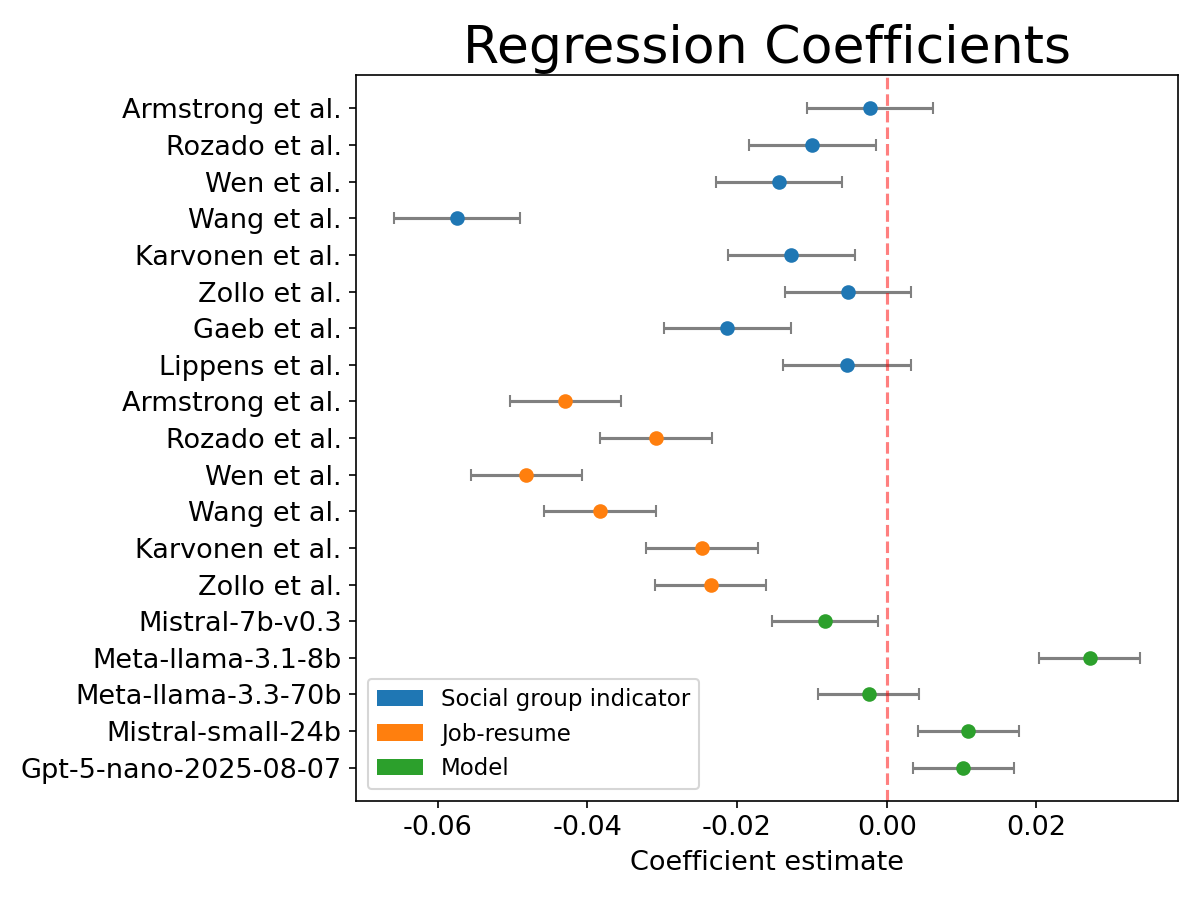
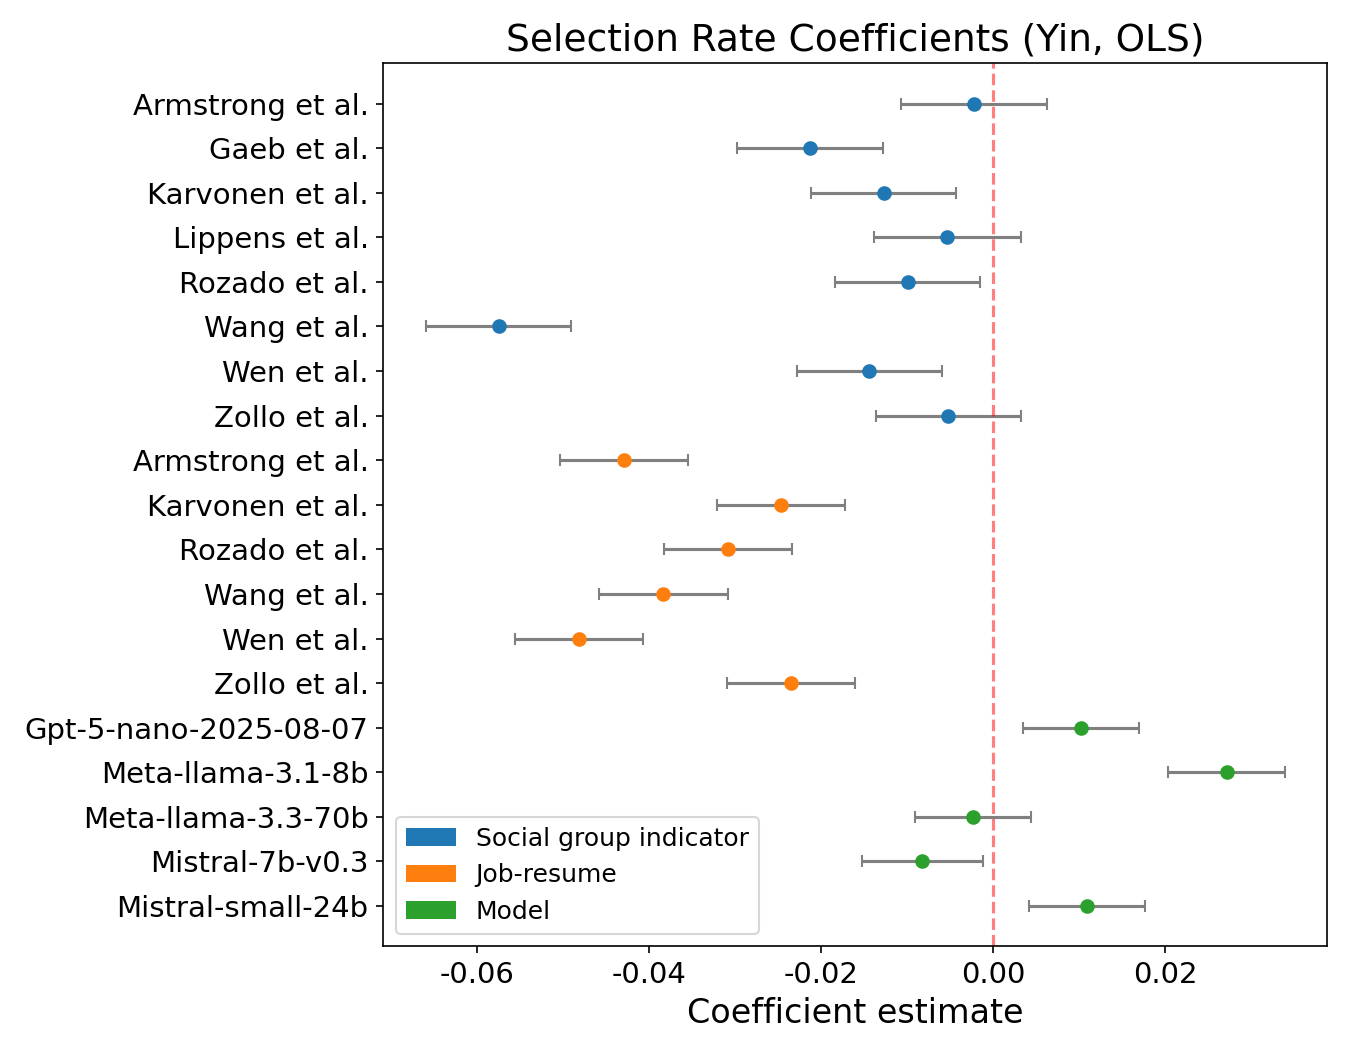
Add interaction-effects model results

diff --git a/code/utils/meta_regression_analysis_intercept.py b/code/utils/meta_regression_analysis_intercept.py
@@ -36,6 +36,12 @@ TITLE_FONT_SIZE = 25
 LABEL_FONT_SIZE = 13
 LEGEND_FONT_SIZE = 15
 TICK_FONT_SIZE = 13
+PANEL_TITLE_FONT_SIZE = 18
+PANEL_LABEL_FONT_SIZE = 16
+PANEL_TICK_FONT_SIZE = 14
+PANEL_LEGEND_FONT_SIZE = 12
+PANEL_FIGSIZE = (9, 7)
+PANEL_DPI = 150
 plt.rcParams.update({
     'font.family': 'sans-serif',
     'font.sans-serif': ['Inter-Regular', 'DejaVu Sans', 'Arial', 'Liberation Sans'],
@@ -386,9 +392,29 @@ def cross_validate(X, y, X_cols, df=None, color_col=None, n_splits=5, random_sta
     return r2_mean, r2_std, rmse_mean, all_y_test, all_pred_test, all_color_test
 
 
+def panel_description(args, ablation):
+    metric = {
+        'selection_rate': 'Selection Rate',
+        'score_difference': 'Score Difference',
+        'regression_coefficients': 'Gender Effect',
+    }.get(args.metric, args.metric.replace('_', ' ').title())
+    estimator = {'quantile': 'Quantile Regression', 'logistic': 'Logistic Regression'}.get(ablation, 'OLS')
+    context = f'{args.exp_framework.capitalize()}, {estimator}'
+    if ablation not in ('none', 'quantile', 'logistic'):
+        context += f", {ablation.replace('_', ' ').title()} Ablation"
+    return metric, context
+
+
+def style_panel(ax):
+    ax.title.set_fontsize(PANEL_TITLE_FONT_SIZE)
+    ax.xaxis.label.set_size(PANEL_LABEL_FONT_SIZE)
+    ax.yaxis.label.set_size(PANEL_LABEL_FONT_SIZE)
+    ax.tick_params(axis='both', labelsize=PANEL_TICK_FONT_SIZE)
+
+
 def plot(all_y_test, all_pred_test, all_color_test, r2, rmse, args, ablation='none'):
     # Scatter plot with an identity line, optionally colored by category.
-    fig, ax = plt.subplots(figsize=(9, 7))
+    fig, ax = plt.subplots(figsize=PANEL_FIGSIZE)
     
     if args.color_by != 'none':
         # Collect all color values and create a color mapping
@@ -424,21 +450,23 @@ def plot(all_y_test, all_pred_test, all_color_test, r2, rmse, args, ablation='no
     ax.set_xlim(x_limits)
     ax.set_ylim(y_limits)
     
-    ax.set_xlabel('Observed')
-    ax.set_ylabel('Predicted')
-    ax.set_title('Observed vs Predicted Selection Rate')
+    metric, context = panel_description(args, ablation)
+    ax.set_xlabel(f'Observed {metric}')
+    ax.set_ylabel(f'Predicted {metric}')
+    ax.set_title(f'Observed vs. Predicted {metric} ({context})')
+    style_panel(ax)
 
     handles, labels = ax.get_legend_handles_labels()
     handles.append(Line2D([], [], linestyle='none', marker=''))
     labels.append(f'$R^2 = {r2:.3f}$')
-    ax.legend(handles, labels, loc='upper left')
+    ax.legend(handles, labels, loc='upper left', fontsize=PANEL_LEGEND_FONT_SIZE)
     ax.xaxis.set_major_formatter(FormatStrFormatter('%.2f'))
     ax.yaxis.set_major_formatter(FormatStrFormatter('%.2f'))
     ax.grid(True, alpha=0.3)
     plt.tight_layout()
     os.makedirs(repo_path(f'results/meta/{args.exp_framework}'), exist_ok=True)
     plot_file = f"results/meta/{args.exp_framework}/meta_regression_plot_intercept_colorby_{args.color_by}_modelspec_{args.model_spec}_ablation_{ablation}.png"
-    plt.savefig(repo_path(plot_file), dpi=100, bbox_inches='tight')
+    plt.savefig(repo_path(plot_file), dpi=PANEL_DPI)
     print(f"Plot saved as '{plot_file}'")
     plt.close()
 
@@ -453,6 +481,12 @@ def coefficient_display_label(coef_name):
     else:
         label = coef_name
     return label[0].upper() + label[1:] if label else label
+
+
+def coefficient_sort_key(coef_name):
+    prefixes = ('name_', 'job_', 'model_')
+    group = next((i for i, prefix in enumerate(prefixes) if coef_name.startswith(prefix)), len(prefixes))
+    return group, coefficient_display_label(coef_name).casefold()
 
 
 def framework_column_map(exp_framework):
@@ -965,7 +999,6 @@ def main():
         df = df.drop_duplicates(subset=["Names", "Jobs", "Model", "Metric"], keep="first")
         df = df[df["Sensitive_Attribute_Vector"] == "['Woman']"]
         df = df[df["Metric"] == args.metric] #378
-
         if df.empty:
             raise ValueError("No rows with Sensitive_AttributeVector=='Woman' and Metric==args.metric found in input CSV")
 
@@ -1077,14 +1110,12 @@ def main():
         lower = ci[0].astype(float)
         upper = ci[1].astype(float)
 
-        # Exclude 'const' from the y-axis; show its value in the title
-        const_val = est.get('const', np.nan)
         if args.model_spec == 'interactions':
             # Keep interaction terms in the model fit, but omit them from the plot to reduce clutter
             coef_index = [i for i in full_index if i != 'const' and not i.startswith('int_')]
         else:
             coef_index = [i for i in full_index if i != 'const']
-        coef_index = [c for c in coef_index if c not in drops]
+        coef_index = sorted((c for c in coef_index if c not in drops), key=coefficient_sort_key)
         est_no_const = est.reindex(coef_index)
         lower_no_const = lower.reindex(coef_index)
         upper_no_const = upper.reindex(coef_index)
@@ -1106,7 +1137,7 @@ def main():
             else:
                 colors.append('gray')
 
-        fig, ax = plt.subplots(figsize=(8, max(6, len(coef_index) * 0.22)))
+        fig, ax = plt.subplots(figsize=(PANEL_FIGSIZE[0], max(PANEL_FIGSIZE[1], len(coef_index) * 0.3)))
         y_pos = np.arange(len(coef_index))
         
         # Plot each coefficient with its color
@@ -1122,8 +1153,9 @@ def main():
         ax.set_yticklabels(display_coef_labels)
         ax.invert_yaxis()
         ax.set_xlabel('Coefficient estimate')
-        # ax.set_title(f"Regression Coefficients const={const_val:.4f}")
-        ax.set_title(f"Regression Coefficients")
+        metric, context = panel_description(args, ablation_name)
+        ax.set_title(f'{metric} Coefficients ({context})')
+        style_panel(ax)
         ax.xaxis.set_major_formatter(FormatStrFormatter('%.2f'))
         
         # Add legend for only the coefficient groups that are plotted
@@ -1138,11 +1170,11 @@ def main():
         if any(c.startswith('int_') for c in coef_index):
             legend_elements.append(Patch(facecolor='C3', label='Interaction'))
         if legend_elements:
-            ax.legend(handles=legend_elements, loc='lower left', fontsize=11)
+            ax.legend(handles=legend_elements, loc='lower left', fontsize=PANEL_LEGEND_FONT_SIZE)
         plt.tight_layout()
         os.makedirs(repo_path(f'results/meta/{args.exp_framework}'), exist_ok=True)
         coef_plot_file = f"results/meta/{args.exp_framework}/coef_ci_plot_intercept_modelspec_{args.model_spec}_ablation_{ablation_name}.png"
-        plt.savefig(repo_path(coef_plot_file), dpi=150)
+        plt.savefig(repo_path(coef_plot_file), dpi=PANEL_DPI)
         print(f"Coefficient plot saved as '{coef_plot_file}'")
         plt.close()
 
